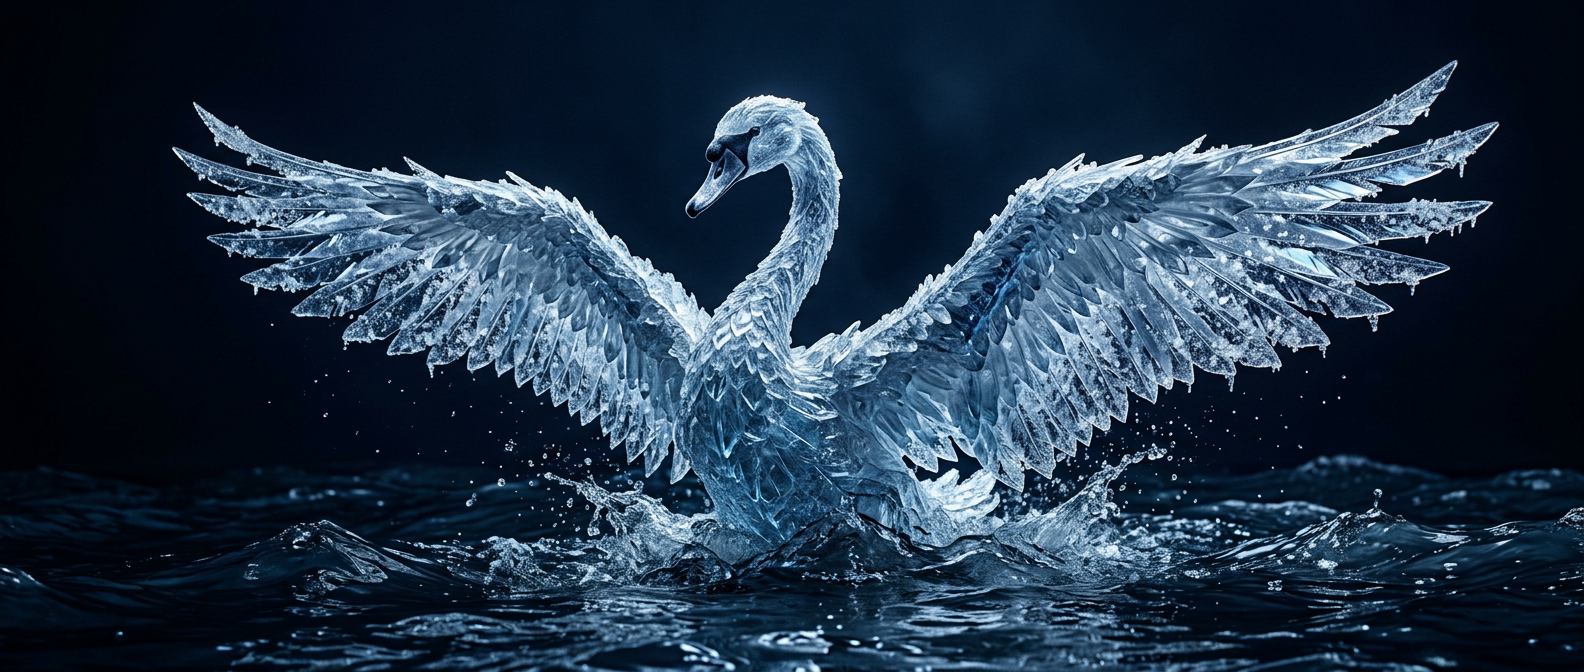
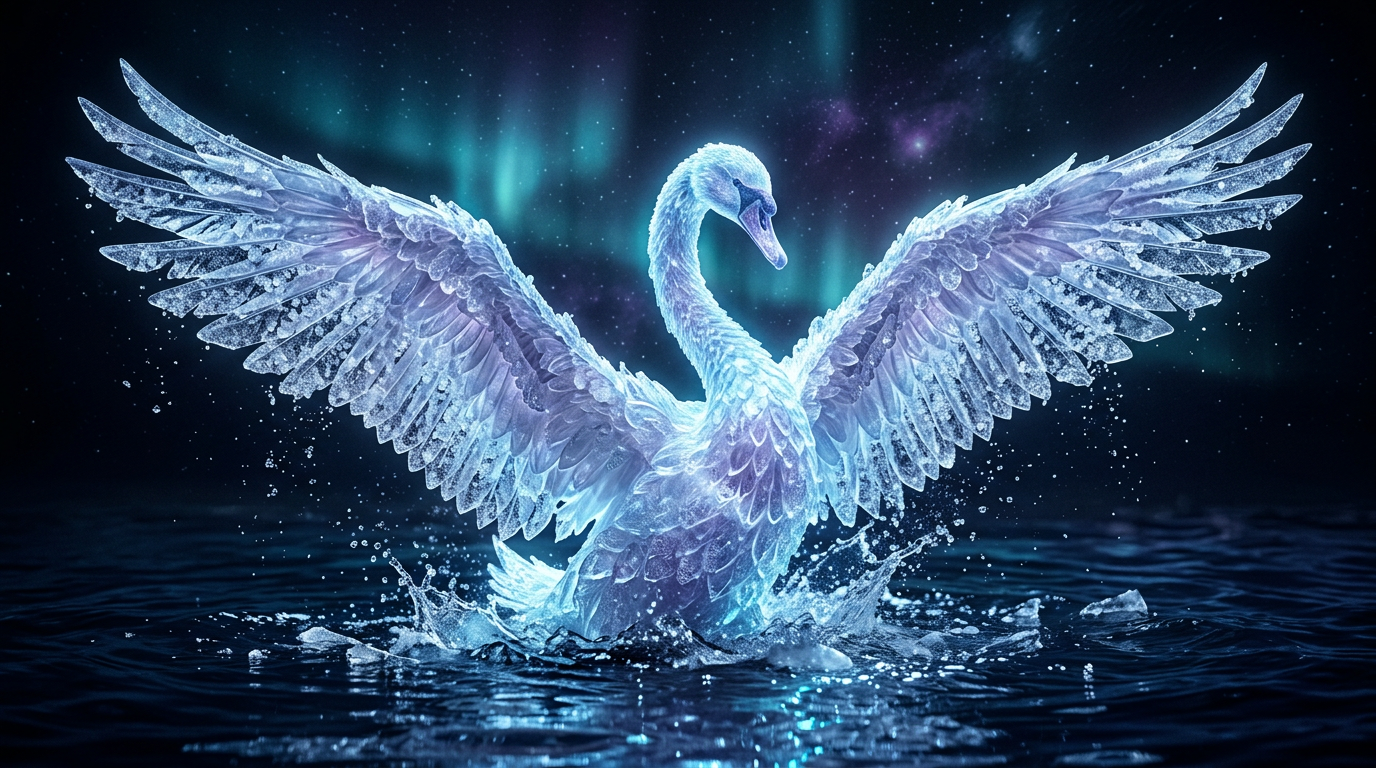
feat(theme): add Wing Purple (#8B5CF6) token system + regenerated hero images
Wing Purple was missing from all 6 theme variants despite being the designated
glow/accent color. Added wingPurple tokens, updated gradients/shadows/borders,
and applied Wing Purple as lead accent in StoreV3 and GalleryPage. Regenerated
4 parallax hero backgrounds via Gemini AI.

diff --git a/frontend/src/context/ThemeContext/UniversalThemeContext.tsx b/frontend/src/context/ThemeContext/UniversalThemeContext.tsx
@@ -71,6 +71,10 @@ const crystallineDefault = {
     accentLight: '#D8C478',
     accentWarm: '#B8963A',
 
+    wingPurple: '#8B5CF6',
+    wingPurpleLight: '#A78BFA',
+    wingPurpleDeep: '#7C3AED',
+
     white: '#E0ECF4',
     silver: '#E0ECF4',
     muted: 'rgba(224, 236, 244, 0.7)',
@@ -79,9 +83,9 @@ const crystallineDefault = {
     warning: '#FBBF24',
   },
   gradients: {
-    primary: 'linear-gradient(135deg, #001545, #60C0F0)',
+    primary: 'linear-gradient(135deg, #8B5CF6, #60C0F0)',
     secondary: 'linear-gradient(135deg, #002060, #4070C0)',
-    cosmic: 'linear-gradient(135deg, #001545, #50A0F0)',
+    cosmic: 'linear-gradient(135deg, #8B5CF6, #50A0F0)',
     hero: 'radial-gradient(ellipse at 20% 30%, rgba(96,192,240,0.15) 0%, transparent 50%), radial-gradient(ellipse at 80% 70%, rgba(198,168,75,0.1) 0%, transparent 50%), radial-gradient(ellipse at center, #002060 0%, #001545 70%)',
     card: 'linear-gradient(135deg, rgba(0, 48, 128, 0.5), rgba(96, 192, 240, 0.08))',
     accent: 'linear-gradient(135deg, #001545, #C6A84B)',
@@ -97,7 +101,7 @@ const crystallineDefault = {
     elevation: '0 15px 35px rgba(0, 0, 0, 0.5)',
     glow: '0 0 20px currentColor',
     glass: '0 8px 32px rgba(0, 21, 69, 0.4)',
-    button: '0 4px 20px rgba(96, 192, 240, 0.3)',
+    button: '0 4px 20px rgba(139, 92, 246, 0.3)',
   },
   borders: {
     subtle: 'rgba(96, 192, 240, 0.1)',
@@ -105,7 +109,8 @@ const crystallineDefault = {
     prominent: 'rgba(80, 160, 240, 0.4)',
     glass: '1px solid rgba(96, 192, 240, 0.18)',
     card: '1px solid rgba(96, 192, 240, 0.15)',
-    focus: '2px solid #60C0F0',
+    focus: '2px solid #8B5CF6',
+    glow: '1px solid rgba(139, 92, 246, 0.2)',
   },
   background: {
     primary: '#001545',
@@ -162,6 +167,10 @@ const crystallineLight = {
     accentLight: '#D8C478',
     accentWarm: '#A88A30',
 
+    wingPurple: '#7C3AED',
+    wingPurpleLight: '#8B5CF6',
+    wingPurpleDeep: '#6D28D9',
+
     white: '#FFFFFF',
     silver: '#F0F4F8',
     muted: 'rgba(15, 23, 42, 0.5)',
@@ -170,9 +179,9 @@ const crystallineLight = {
     warning: '#D97706',
   },
   gradients: {
-    primary: 'linear-gradient(135deg, #00B4D8, #0EA5E9)',
+    primary: 'linear-gradient(135deg, #7C3AED, #00B4D8)',
     secondary: 'linear-gradient(135deg, #F4F7FB, #FFFFFF)',
-    cosmic: 'linear-gradient(135deg, #00B4D8, #0284C7)',
+    cosmic: 'linear-gradient(135deg, #7C3AED, #0284C7)',
     hero: 'linear-gradient(135deg, #00B4D8 0%, #0EA5E9 50%, #38BDF8 100%)',
     card: 'rgba(255, 255, 255, 0.7)',
     accent: 'linear-gradient(135deg, #C6A84B, #D8C478)',
@@ -188,7 +197,7 @@ const crystallineLight = {
     elevation: '0 8px 24px rgba(0, 32, 96, 0.08)',
     glow: '0 0 0 transparent',
     glass: '0 8px 32px rgba(0, 0, 0, 0.06)',
-    button: '0 2px 12px rgba(0, 180, 216, 0.3)',
+    button: '0 2px 12px rgba(124, 58, 237, 0.3)',
   },
   borders: {
     subtle: 'rgba(0, 180, 216, 0.1)',
@@ -196,7 +205,8 @@ const crystallineLight = {
     prominent: '#94A3B8',
     glass: '1px solid rgba(255, 255, 255, 0.8)',
     card: '1px solid rgba(255, 255, 255, 0.8)',
-    focus: '2px solid #00B4D8',
+    focus: '2px solid #7C3AED',
+    glow: '1px solid rgba(124, 58, 237, 0.2)',
   },
   background: {
     primary: '#F4F7FB',
@@ -254,6 +264,10 @@ const crystallineDark = {
     accentLight: '#FBBF24',
     accentWarm: '#D97706',
 
+    wingPurple: '#A78BFA',
+    wingPurpleLight: '#C4B5FD',
+    wingPurpleDeep: '#7C3AED',
+
     white: '#F1F5F9',
     silver: '#F1F5F9',
     muted: 'rgba(241, 245, 249, 0.55)',
@@ -262,9 +276,9 @@ const crystallineDark = {
     warning: '#FBBF24',
   },
   gradients: {
-    primary: 'linear-gradient(135deg, #030712, #22D3EE)',
+    primary: 'linear-gradient(135deg, #A78BFA, #22D3EE)',
     secondary: 'linear-gradient(135deg, #0F172A, #A78BFA)',
-    cosmic: 'linear-gradient(135deg, #030712, #06B6D4)',
+    cosmic: 'linear-gradient(135deg, #A78BFA, #06B6D4)',
     hero: 'radial-gradient(ellipse at 30% 40%, rgba(34,211,238,0.12) 0%, transparent 50%), radial-gradient(ellipse at 70% 60%, rgba(167,139,250,0.08) 0%, transparent 50%), radial-gradient(ellipse at center, #0F172A 0%, #030712 70%)',
     card: 'rgba(15, 23, 42, 0.7)',
     accent: 'linear-gradient(135deg, #030712, #F59E0B)',
@@ -280,7 +294,7 @@ const crystallineDark = {
     elevation: '0 15px 35px rgba(0, 0, 0, 0.8)',
     glow: '0 0 25px currentColor',
     glass: '0 8px 32px rgba(3, 7, 18, 0.6)',
-    button: '0 4px 20px rgba(34, 211, 238, 0.35)',
+    button: '0 4px 20px rgba(167, 139, 250, 0.35)',
   },
   borders: {
     subtle: 'rgba(34, 211, 238, 0.12)',
@@ -288,7 +302,8 @@ const crystallineDark = {
     prominent: 'rgba(34, 211, 238, 0.5)',
     glass: '1px solid rgba(34, 211, 238, 0.25)',
     card: '1px solid rgba(34, 211, 238, 0.2)',
-    focus: '2px solid #22D3EE',
+    focus: '2px solid #A78BFA',
+    glow: '1px solid rgba(167, 139, 250, 0.25)',
   },
   background: {
     primary: '#030712',
@@ -350,6 +365,10 @@ const crystallineMono = {
     accentLight: '#E0E0E0',
     accentWarm: '#999999',
 
+    wingPurple: '#CCCCCC',
+    wingPurpleLight: '#E0E0E0',
+    wingPurpleDeep: '#AAAAAA',
+
     white: '#FFFFFF',
     silver: '#E0E0E0',
     muted: 'rgba(255, 255, 255, 0.5)',
@@ -385,6 +404,7 @@ const crystallineMono = {
     glass: '1px solid rgba(255,255,255,0.06)',
     card: '1px solid rgba(255,255,255,0.1)',
     focus: '2px solid #FFFFFF',
+    glow: '1px solid rgba(255, 255, 255, 0.1)',
   },
   background: {
     primary: '#000000',
@@ -441,6 +461,10 @@ const cinematicEmber = {
     accentLight: '#D4B85A',
     accentWarm: '#B8860B',
 
+    wingPurple: '#E11D48',
+    wingPurpleLight: '#FB7185',
+    wingPurpleDeep: '#BE123C',
+
     white: '#FFF5EB',
     silver: '#F5E6D3',
     muted: 'rgba(245, 230, 211, 0.55)',
@@ -475,7 +499,8 @@ const cinematicEmber = {
     prominent: 'rgba(245, 158, 11, 0.4)',
     glass: '1px solid rgba(245, 158, 11, 0.2)',
     card: '1px solid rgba(245, 158, 11, 0.15)',
-    focus: '2px solid #F59E0B',
+    focus: '2px solid #E11D48',
+    glow: '1px solid rgba(225, 29, 72, 0.2)',
   },
   background: {
     primary: '#1A0F0A',
@@ -532,6 +557,10 @@ const frozenAurora = {
     accentLight: '#D4B85A',
     accentWarm: '#B8860B',
 
+    wingPurple: '#6366F1',
+    wingPurpleLight: '#818CF8',
+    wingPurpleDeep: '#4F46E5',
+
     white: '#1E293B',
     silver: '#334155',
     muted: 'rgba(30, 41, 59, 0.45)',
@@ -567,6 +596,7 @@ const frozenAurora = {
     glass: '1px solid rgba(99, 102, 241, 0.15)',
     card: '1px solid rgba(99, 102, 241, 0.1)',
     focus: '2px solid #6366F1',
+    glow: '1px solid rgba(99, 102, 241, 0.15)',
   },
   background: {
     primary: '#F0F4F8',

diff --git a/frontend/src/pages/shop/StoreV3.tsx b/frontend/src/pages/shop/StoreV3.tsx
@@ -184,7 +184,7 @@ const HeroLogo = styled.img`
   width: 120px;
   border-radius: 50%;
   height: auto;
-  filter: drop-shadow(0 0 20px ${({ theme }) => theme.colors?.primary || '#60C0F0'}60);
+  filter: drop-shadow(0 0 20px ${({ theme }) => theme.colors?.accent || '#8B5CF6'}60);
   ${noMotion}
 
   @media (prefers-reduced-motion: no-preference) {
@@ -201,7 +201,7 @@ const HeroTitle = styled.h1`
   font-size: 3.5rem;
   font-weight: 700;
   color: ${({ theme }) => theme.text?.heading || '#E0ECF4'};
-  text-shadow: 0 2px 20px ${({ theme }) => theme.colors?.primary || '#60C0F0'}40;
+  text-shadow: 0 2px 20px ${({ theme }) => theme.colors?.accent || '#8B5CF6'}40;
   margin: 0;
 
   @media (max-width: 768px) {
@@ -268,16 +268,16 @@ const HeroButton = styled.button<{ $variant?: 'primary' | 'secondary' }>`
             : ''}
 
           &:hover {
-            border-color: ${theme.colors?.primary || '#60C0F0'};
+            border-color: ${theme.colors?.accent || '#8B5CF6'};
             background: ${theme.background?.elevated || 'rgba(0,48,128,0.4)'};
-            box-shadow: ${theme.shadows?.primary || '0 0 25px rgba(96,192,240,0.25)'};
+            box-shadow: 0 0 25px rgba(139, 92, 246, 0.25);
           }
         `
       : css`
-          background: ${theme.gradients?.primary || 'linear-gradient(135deg, #001545, #60C0F0)'};
+          background: ${theme.gradients?.primary || 'linear-gradient(135deg, #8B5CF6, #60C0F0)'};
           color: ${theme.colors?.white || '#E0ECF4'};
           border: none;
-          box-shadow: ${theme.shadows?.button || '0 4px 20px rgba(96,192,240,0.3)'};
+          box-shadow: ${theme.shadows?.button || '0 4px 20px rgba(139, 92, 246, 0.3)'};
 
           &:hover {
             transform: translateY(-2px);
@@ -286,7 +286,7 @@ const HeroButton = styled.button<{ $variant?: 'primary' | 'secondary' }>`
         `}
 
   &:focus-visible {
-    outline: 2px solid ${({ theme }) => theme.colors?.primary || '#60C0F0'};
+    outline: 2px solid ${({ theme }) => theme.colors?.accent || '#8B5CF6'};
     outline-offset: 3px;
   }
 
@@ -375,7 +375,7 @@ const SectionTitle = styled.h2`
   background: linear-gradient(
     135deg,
     ${({ theme }) => theme.text?.heading || '#E0ECF4'} 0%,
-    ${({ theme }) => theme.colors?.primary || '#60C0F0'} 100%
+    ${({ theme }) => theme.colors?.accent || '#8B5CF6'} 100%
   );
   -webkit-background-clip: text;
   -webkit-text-fill-color: transparent;
@@ -478,9 +478,9 @@ const CTAButton = styled.button`
   cursor: pointer;
   min-height: 44px;
   min-width: 44px;
-  background: ${({ theme }) => theme.gradients?.primary || 'linear-gradient(135deg, #001545, #60C0F0)'};
+  background: ${({ theme }) => theme.gradients?.primary || 'linear-gradient(135deg, #8B5CF6, #60C0F0)'};
   color: ${({ theme }) => theme.colors?.white || '#E0ECF4'};
-  box-shadow: ${({ theme }) => theme.shadows?.button || '0 4px 20px rgba(96,192,240,0.3)'};
+  box-shadow: ${({ theme }) => theme.shadows?.button || '0 4px 20px rgba(139, 92, 246, 0.3)'};
   letter-spacing: 0.5px;
   transition: all 0.3s ease;
   ${noMotion}
@@ -491,7 +491,7 @@ const CTAButton = styled.button`
   }
 
   &:focus-visible {
-    outline: 2px solid ${({ theme }) => theme.colors?.primary || '#60C0F0'};
+    outline: 2px solid ${({ theme }) => theme.colors?.accent || '#8B5CF6'};
     outline-offset: 3px;
   }
 
@@ -522,7 +522,7 @@ const Spinner = styled.div`
   width: 50px;
   height: 50px;
   border: 4px solid ${({ theme }) => theme.borders?.subtle || 'rgba(96,192,240,0.1)'};
-  border-left: 4px solid ${({ theme }) => theme.colors?.primary || '#60C0F0'};
+  border-left: 4px solid ${({ theme }) => theme.colors?.accent || '#8B5CF6'};
   border-radius: 50%;
   ${noMotion}
 
@@ -577,12 +577,12 @@ const RetryButton = styled.button`
   transition: all 0.3s ease;
 
   &:hover {
-    border-color: ${({ theme }) => theme.colors?.primary || '#60C0F0'};
-    box-shadow: ${({ theme }) => theme.shadows?.primary || '0 0 25px rgba(96,192,240,0.25)'};
+    border-color: ${({ theme }) => theme.colors?.accent || '#8B5CF6'};
+    box-shadow: 0 0 25px rgba(139, 92, 246, 0.25);
   }
 
   &:focus-visible {
-    outline: 2px solid ${({ theme }) => theme.colors?.primary || '#60C0F0'};
+    outline: 2px solid ${({ theme }) => theme.colors?.accent || '#8B5CF6'};
     outline-offset: 3px;
   }
 `;

diff --git a/frontend/src/pages/GalleryPage.tsx b/frontend/src/pages/GalleryPage.tsx
@@ -197,8 +197,8 @@ const HeroHeadline = styled.h1`
     font-family: 'Cormorant Garamond', serif;
     font-style: italic;
     font-weight: 600;
-    color: #60C0F0;
-    text-shadow: 0 0 24px rgba(96, 192, 240, 0.4);
+    color: #8B5CF6;
+    text-shadow: 0 0 24px rgba(139, 92, 246, 0.4);
     margin-top: 8px;
   }
 
@@ -398,7 +398,7 @@ const ContentMax = styled.div`
 const PageTitle = styled.h1`
   font-size: 36px;
   font-weight: 800;
-  background: linear-gradient(135deg, #60C0F0, #8B5CF6);
+  background: linear-gradient(135deg, #8B5CF6, #60C0F0);
   -webkit-background-clip: text;
   -webkit-text-fill-color: transparent;
   background-clip: text;
@@ -509,7 +509,7 @@ const GateCard = styled(motion.div)`
 const GateTitle = styled.h2`
   font-size: 24px;
   font-weight: 700;
-  background: linear-gradient(135deg, #60C0F0, #8B5CF6);
+  background: linear-gradient(135deg, #8B5CF6, #60C0F0);
   -webkit-background-clip: text;
   -webkit-text-fill-color: transparent;
   background-clip: text;
@@ -567,7 +567,7 @@ const SubmitButton = styled.button<{ $loading?: boolean }>`
   width: 100%;
   padding: 14px;
   min-height: 48px;
-  background: linear-gradient(135deg, #60C0F0 0%, #8B5CF6 100%);
+  background: linear-gradient(135deg, #8B5CF6 0%, #60C0F0 100%);
   border: none;
   border-radius: 12px;
   color: #002060;
@@ -610,7 +610,7 @@ const PhotoCard = styled.div<{ $selected?: boolean }>`
       right: 8px;
       width: 32px;
       height: 32px;
-      background: linear-gradient(135deg, #60C0F0, #8B5CF6);
+      background: linear-gradient(135deg, #8B5CF6, #60C0F0);
       border-radius: 50%;
       display: flex;
       align-items: center;
@@ -771,7 +771,7 @@ const LightboxBtn = styled.a<{ $primary?: boolean }>`
   text-decoration: none;
   border: 1px solid rgba(255,255,255,0.15);
   ${p => p.$primary
-    ? 'background: linear-gradient(135deg, #60C0F0, #8B5CF6); color: #002060; border: none;'
+    ? 'background: linear-gradient(135deg, #8B5CF6, #60C0F0); color: #002060; border: none;'
     : 'background: rgba(255,255,255,0.08); color: #fff;'}
   &:hover { opacity: 0.9; }
 `;
@@ -870,7 +870,7 @@ const ModalCard = styled(motion.div)`
 const ModalTitle = styled.h2`
   font-size: 24px;
   font-weight: 700;
-  background: linear-gradient(135deg, #60C0F0, #8B5CF6);
+  background: linear-gradient(135deg, #8B5CF6, #60C0F0);
   -webkit-background-clip: text;
   -webkit-text-fill-color: transparent;
   background-clip: text;
@@ -929,7 +929,7 @@ const PricingLabel = styled.div`
 const PricingPrice = styled.div`
   font-size: 28px;
   font-weight: 800;
-  background: linear-gradient(135deg, #60C0F0, #8B5CF6);
+  background: linear-gradient(135deg, #8B5CF6, #60C0F0);
   -webkit-background-clip: text;
   -webkit-text-fill-color: transparent;
   background-clip: text;
@@ -1030,7 +1030,7 @@ const SupportBtn = styled.button<{ $variant?: 'primary' | 'secondary' | 'ghost' 
   font-weight: 600;
   cursor: pointer;
   border: 1px solid rgba(255,255,255,0.12);
-  ${p => p.$variant === 'primary' && 'background: linear-gradient(135deg, #60C0F0, #8B5CF6); color: #002060; border: none;'}
+  ${p => p.$variant === 'primary' && 'background: linear-gradient(135deg, #8B5CF6, #60C0F0); color: #002060; border: none;'}
   ${p => p.$variant === 'secondary' && 'background: rgba(139, 92, 246, 0.1); color: #60C0F0; border-color: rgba(139, 92, 246,0.3);'}
   ${p => (!p.$variant || p.$variant === 'ghost') && 'background: rgba(255,255,255,0.05); color: rgba(255,255,255,0.7);'}
   &:hover { opacity: 0.85; }
